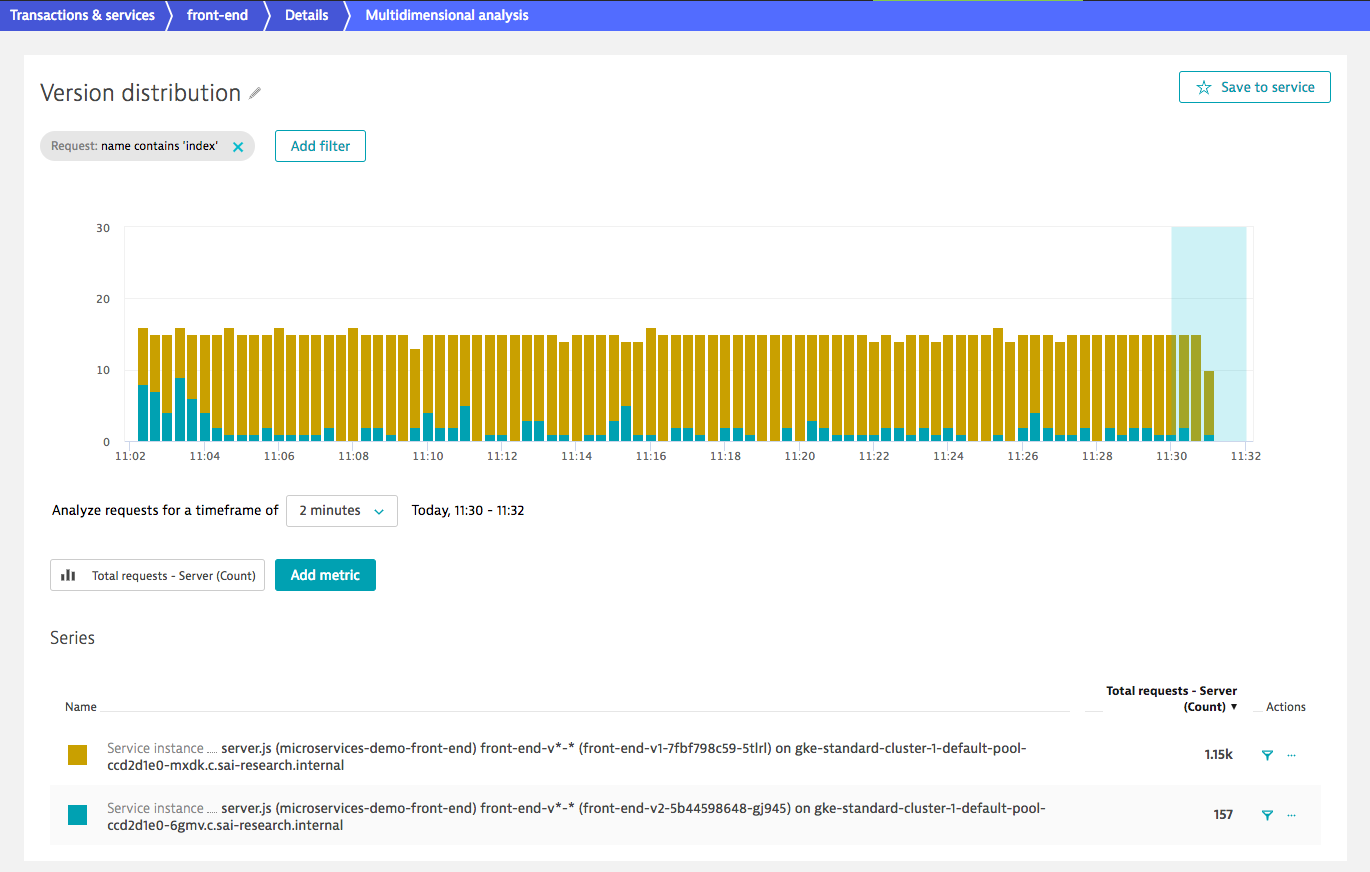
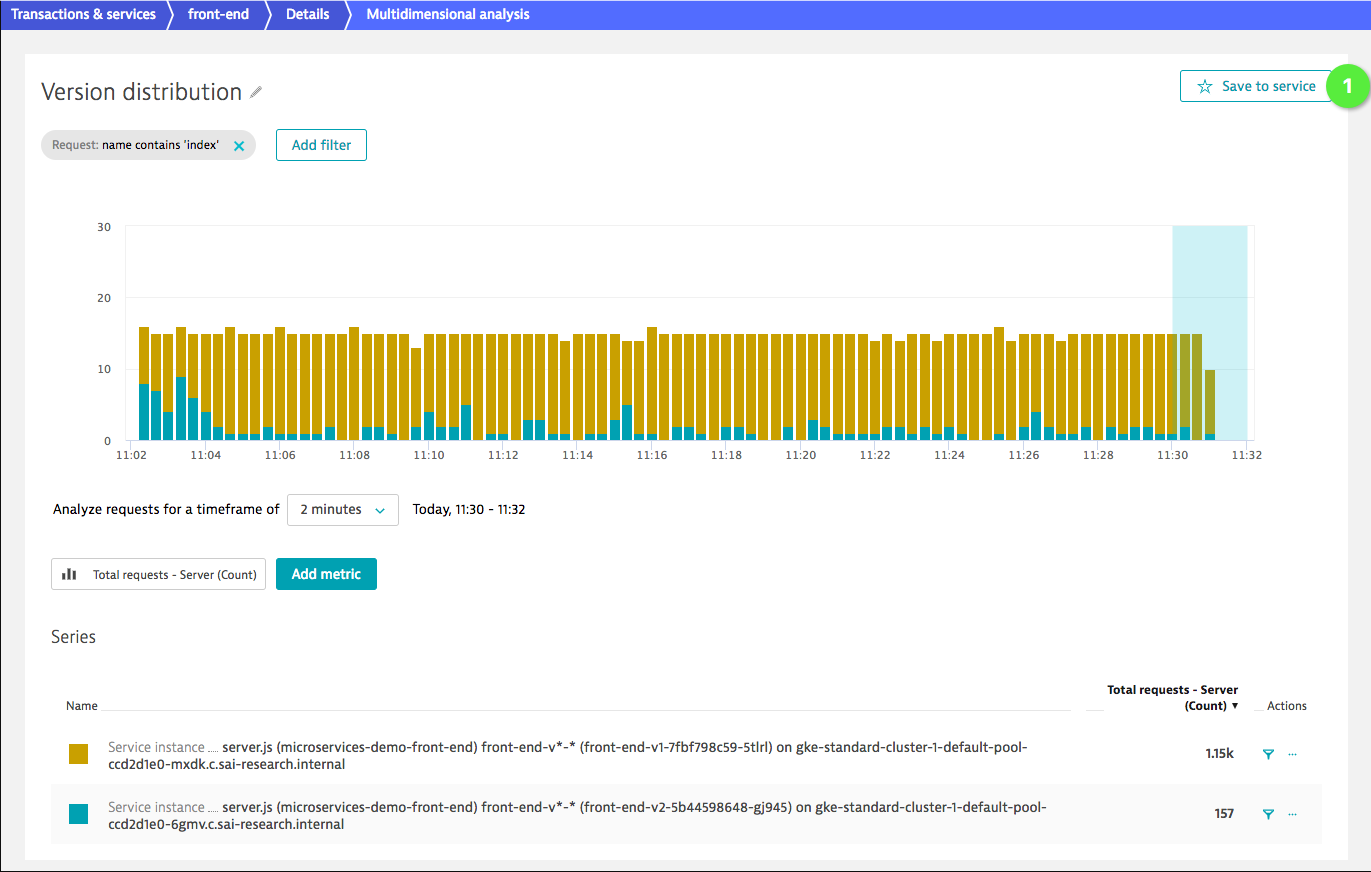
updating prod-deploy doc

diff --git a/workshop/09_Blue-green_and_Canary_Deployment/6_Istio_Traffic_Routing/README.md b/workshop/09_Blue-green_and_Canary_Deployment/6_Istio_Traffic_Routing/README.md
@@ -58,7 +58,7 @@ In this lab, we'll configure traffic routing in Istio to redirect traffic based 
 
     ![chart-select-dimension](../assets/chart-select-dimension.png)
 
-1. Your chart should now look something like this, already showing the traffic distribution between the two service instances.
+1. Your chart should now look something like this, already showing the traffic distribution between the two service instances. Finally, click the "Save to Service" button :one: in the upper right corner, so you can easily access this chart form the service overview from now on.
 
     ![chart-done](../assets/chart-done.png)
 
